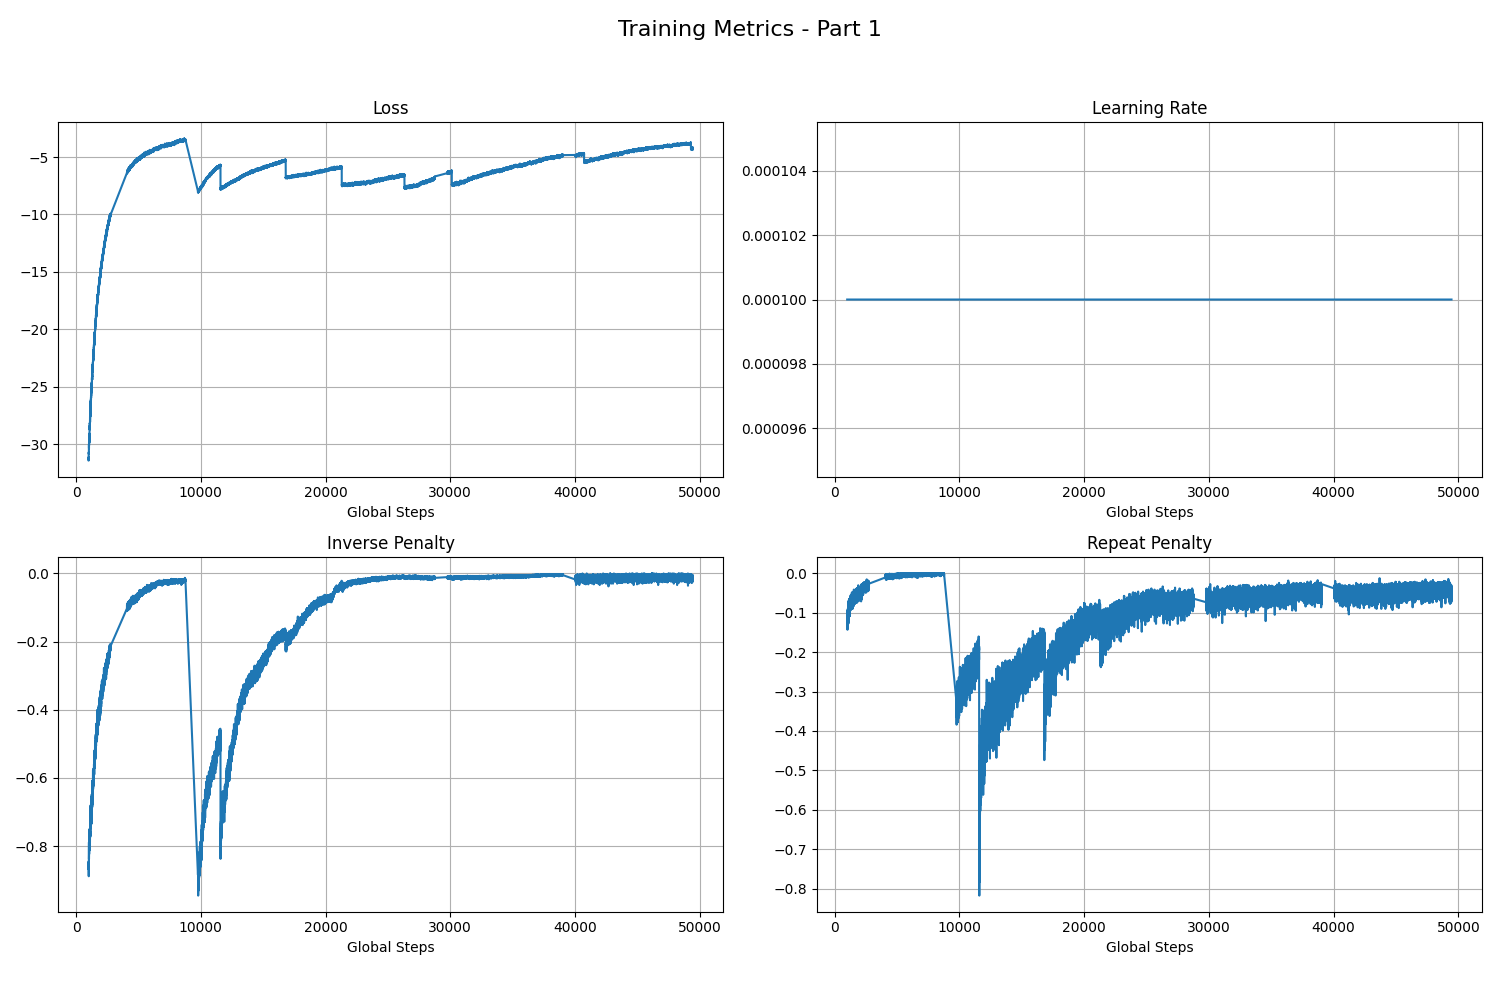
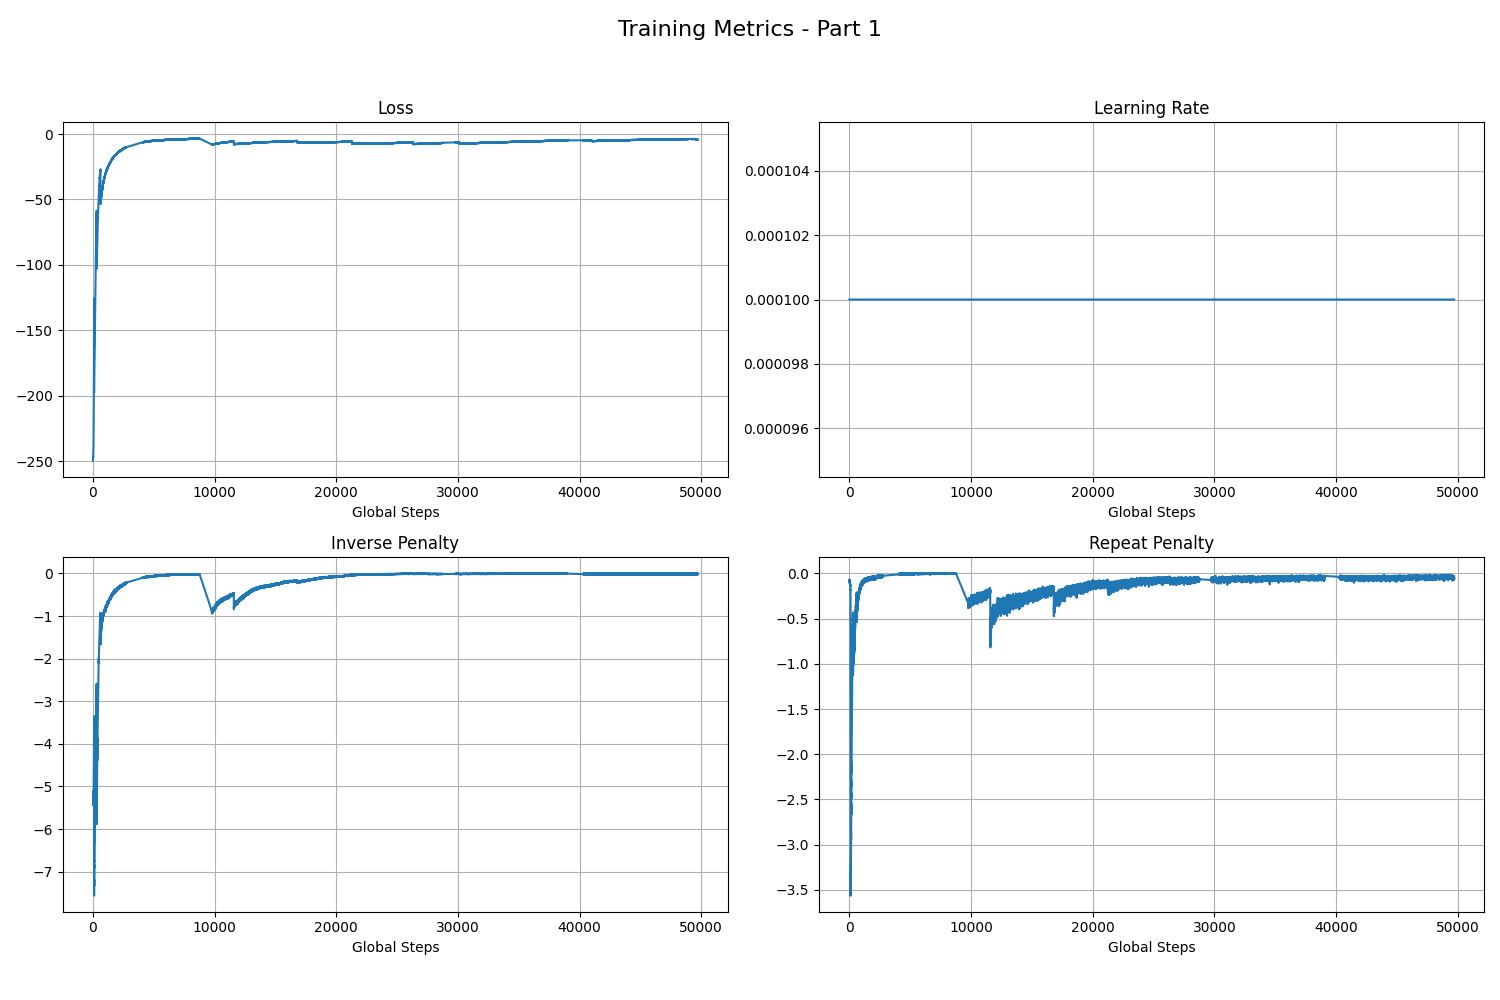
update visualization

diff --git a/scripts/concat_and_plot_logs.py b/scripts/concat_and_plot_logs.py
@@ -71,11 +71,11 @@ def concat_and_plot(run_dirs):
             
             has_data = True
             max_step = max(max_step, max(steps))
-
-            # Filter first 1000 steps of each run to prevent jumps
-            cutoff = min(steps) + 1000
+            # Filter first 1000 steps of each run to prevent jumps, except for the oldest run
+            is_oldest = os.path.basename(run_dir) == "run_20260217_205610"
+            cutoff = min(steps) + (0 if is_oldest else 1000)
             indices = [i for i, s in enumerate(steps) if s >= cutoff]
-            
+
             if indices:
                 combined[tag]["steps"].extend([steps[i] + total_offset for i in indices])
                 combined[tag]["values"].extend([values[i] for i in indices])

diff --git a/README.md b/README.md
@@ -25,6 +25,8 @@ The repository combines:
 ---
 
 ## Project Overview
+![Demo](media/demo.gif)
+
 The project is focused on RL for a compact but non-trivial combinatorial domain:
 - **Environment**: true 2x2 Rubik cube dynamics.
 - **Action space**: 12 actions (`U/D/L/R/F/B` with `+/-` quarter-turns).
@@ -411,8 +413,9 @@ uv run python scripts/infer_policy.py --host 127.0.0.1 --port 8000 --scramble-st
 _This section is intentionally prepared as a template._
 
 ### 1. Training Curves
-![Experiment: solve rate](docs/images/exp_solve_rate.png)
-![Experiment: average return](docs/images/exp_avg_return.png)
+![Training Curves Part 1](media/combined_plot_part_1.png)
+![Training Curves Part 2](media/combined_plot_part_2.png)
+![Training Curves Part 3](media/combined_plot_part_3.png)
 
 ### 2. Ablations
 - [ ] Reward shaping ablation
@@ -421,8 +424,6 @@ _This section is intentionally prepared as a template._
 - [ ] Scramble curriculum (`--scramble-steps`)
 
 ### 3. Qualitative Evaluation
-![Example rollout 1](docs/images/exp_rollout_1.gif)
-![Example rollout 2](docs/images/exp_rollout_2.gif)
 
 ### 4. Notes
 - TODO: add exact hyperparameter tables.
